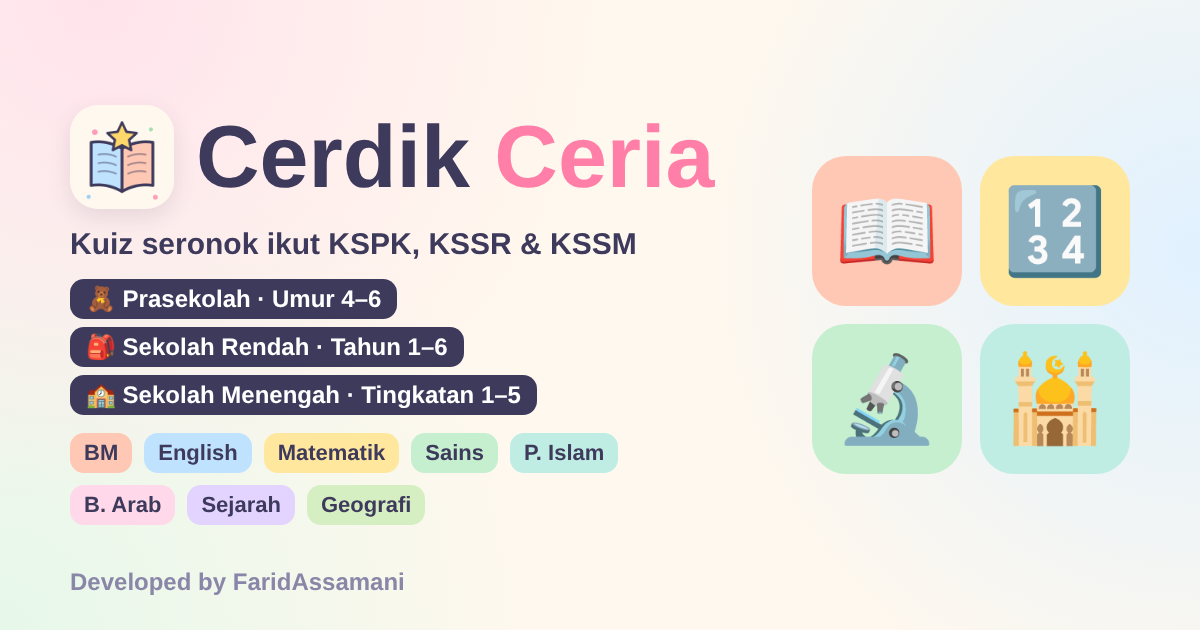
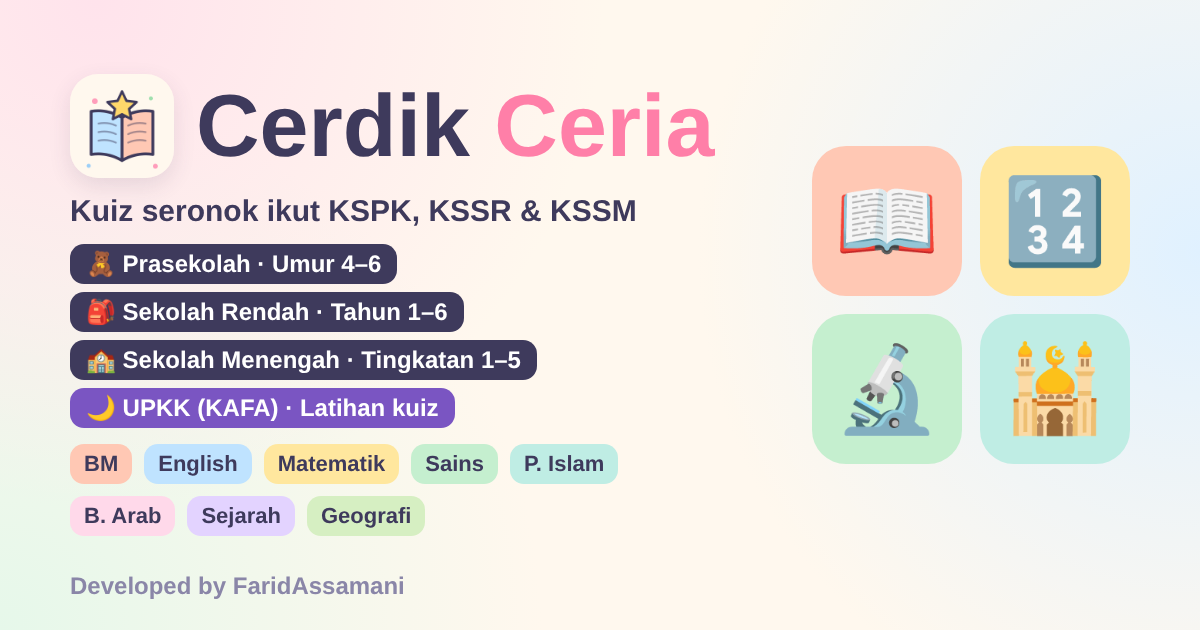
Thumbnail WhatsApp: tambah UPKK; halaman upkk.html dengan thumbnail ucapan (VER 42)
Claude-Session: https://claude.ai/code/session_01JH4JT2dDNTPRenS5n9r5YR

diff --git a/upkk.html b/upkk.html
@@ -1,0 +1,24 @@
+<!doctype html>
+<html lang="ms">
+<head>
+<meta charset="utf-8">
+<meta name="viewport" content="width=device-width, initial-scale=1">
+<title>Cerdik Ceria — Selamat Menduduki UPKK!</title>
+<meta name="description" content="Selamat menduduki UPKK! Latihan kuiz percuma untuk UPKK (KAFA), sekolah rendah dan menengah. Developed by FaridAssamani.">
+<meta property="og:type" content="website">
+<meta property="og:site_name" content="Cerdik Ceria">
+<meta property="og:title" content="Selamat Menduduki UPKK! 🌙 Cerdik Ceria">
+<meta property="og:description" content="Latihan kuiz UPKK (KAFA) dan sekolah rendah &amp; menengah. 100% percuma, tiada iklan. Semoga dipermudahkan!">
+<meta property="og:url" content="https://farawyadal.github.io/cerdikceria/upkk.html">
+<meta property="og:image" content="https://farawyadal.github.io/cerdikceria/og-upkk.png">
+<meta property="og:image:width" content="1200">
+<meta property="og:image:height" content="630">
+<meta property="og:locale" content="ms_MY">
+<meta name="twitter:card" content="summary_large_image">
+<meta name="theme-color" content="#FFF8EE">
+<script>location.replace("./");</script>
+<noscript><meta http-equiv="refresh" content="0;url=./"></noscript>
+<style>body{margin:0;min-height:100vh;display:grid;place-items:center;background:#FFF8EE;color:#3E3A5C;font-family:system-ui,sans-serif;text-align:center}a{color:#7A55C2;font-weight:700}</style>
+</head>
+<body><p>Membuka Cerdik Ceria… <br><a href="./">Tekan di sini jika tidak terbuka</a></p></body>
+</html>

diff --git a/index.html b/index.html
@@ -9,9 +9,9 @@
 <meta property="og:type" content="website">
 <meta property="og:site_name" content="Cerdik Ceria">
 <meta property="og:title" content="Cerdik Ceria — Kuiz Prasekolah, Tahun 1–6 &amp; Tingkatan 1–5 📚">
-<meta property="og:description" content="Prasekolah, Sekolah Rendah (Tahun 1–6, KSSR) dan Sekolah Menengah (Tingkatan 1–5, KSSM). 100% percuma, tiada iklan. Developed by FaridAssamani.">
+<meta property="og:description" content="Prasekolah, Sekolah Rendah (Tahun 1–6, KSSR), Sekolah Menengah (Tingkatan 1–5, KSSM) dan latihan UPKK (KAFA). 100% percuma, tiada iklan. Developed by FaridAssamani.">
 <meta property="og:url" content="https://farawyadal.github.io/cerdikceria/">
-<meta property="og:image" content="https://farawyadal.github.io/cerdikceria/og-image.png?v=5">
+<meta property="og:image" content="https://farawyadal.github.io/cerdikceria/og-image.png?v=6">
 <meta property="og:image:width" content="1200">
 <meta property="og:image:height" content="630">
 <meta property="og:locale" content="ms_MY">
@@ -581,7 +581,7 @@ window.MK = (() => {
 (() => {
 "use strict";
 const $ = s => document.querySelector(s);
-const VER = "41";
+const VER = "42";
 const KEY = "cerdikceria.v1";   // unik supaya tak bercampur dengan app lain di github.io yang sama
 const AVATARS = ["🦊","🐼","🐯","🐰","🐸","🦄","🐨","🐧","🐱","🐶","🦁","🐵","🐙","🦋"];
 const SUBJECTS = [

diff --git a/sw.js b/sw.js
@@ -1,7 +1,7 @@
 // Cerdik Ceria — service worker
 // Network-first: fail baharu terus dipakai bila ada internet; salinan simpanan dipakai bila luar talian.
 // Hanya cache milik app ini (awalan "cerdikceria-") yang disentuh, supaya tak ganggu app lain di github.io yang sama.
-const CACHE = "cerdikceria-v44";
+const CACHE = "cerdikceria-v45";
 const SHELL = ["./", "index.html", "manifest.webmanifest", "icon-192.png", "icon-512.png", "soalan/tahun1.js"];
 
 self.addEventListener("install", e => {
